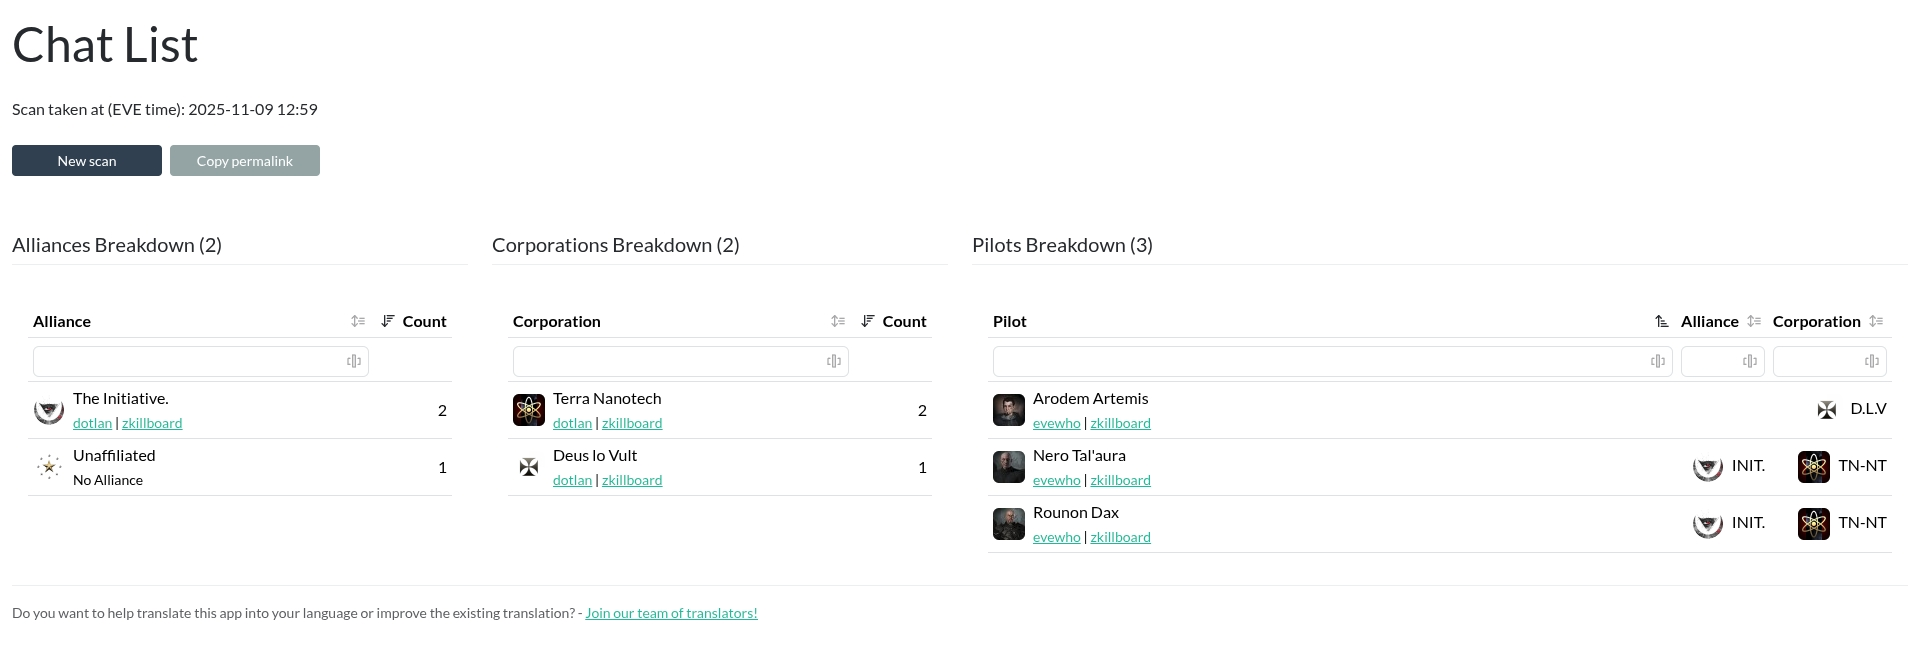
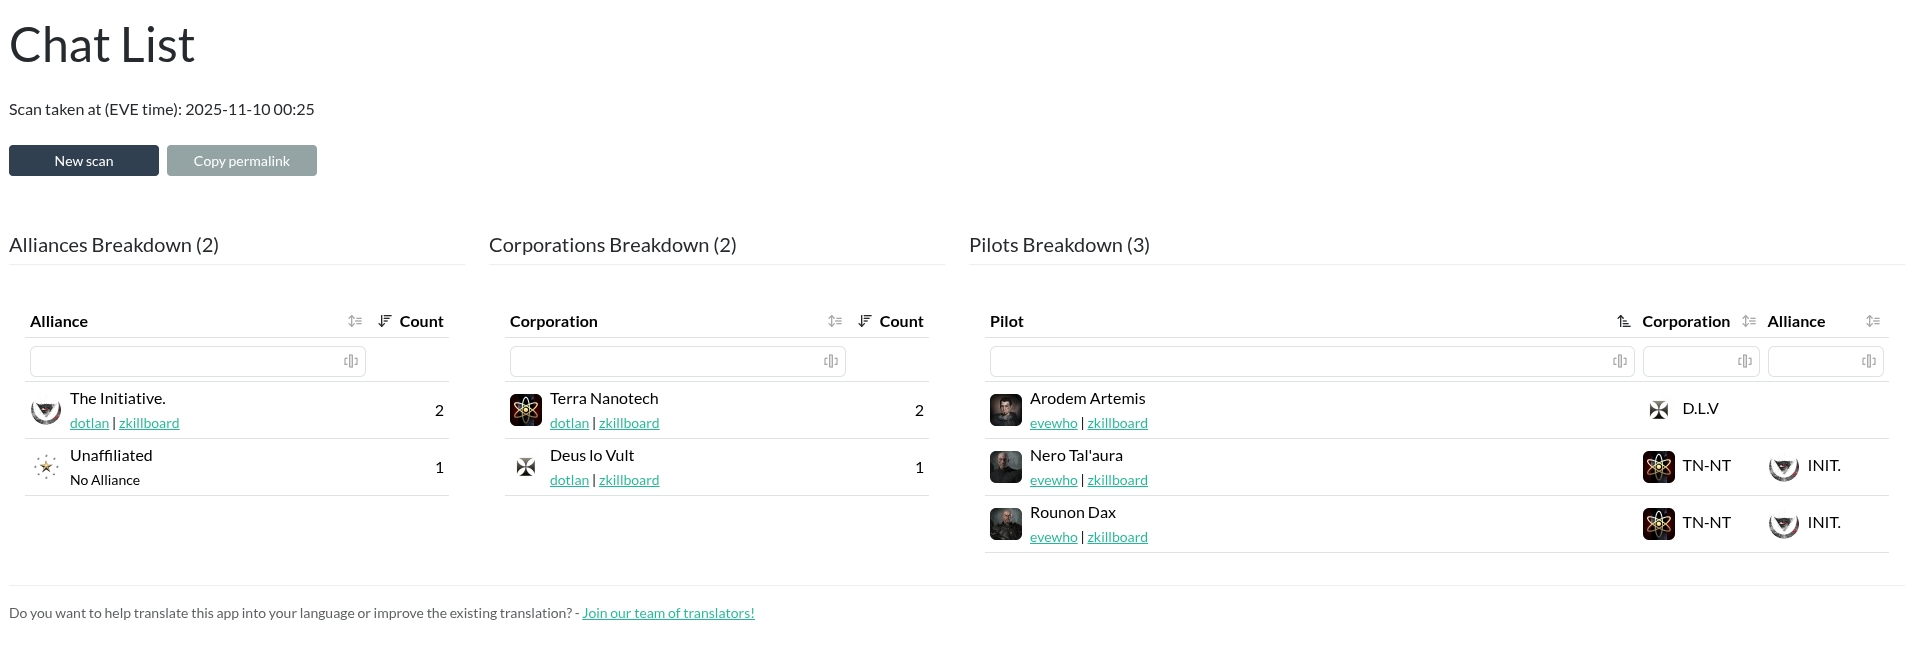
[FIX] Pilot breakdown columns

diff --git a/aa_intel_tool/static/aa_intel_tool/javascript/aa-intel-tool-chatscan.min.js b/aa_intel_tool/static/aa_intel_tool/javascript/aa-intel-tool-chatscan.min.js
@@ -1,2 +1,2 @@
-$(document).ready(()=>{'use strict';const a=_getAaIntelToolJsSettings(),t={pilotsTable:$('table.aa-intel-pilot-participation-list'),corporationsTable:$('table.aa-intel-corporation-participation-list'),alliancesTable:$('table.aa-intel-alliance-participation-list'),pilotsTotalCount:$('span#aa-intel-pilots-count'),corporationsTotalCount:$('span#aa-intel-corporations-count'),alliancesTotalCount:$('span#aa-intel-alliances-count')},l=[[1,'desc']],o=[{target:0,createdCell:a=>$(a).addClass('text-ellipsis fix-eve-image-position')},{target:1,width:35,createdCell:a=>$(a).addClass('text-end'),columnControl:_removeSearchFromColumnControl(a.dataTables.columnControl,1)}],i=({table:t,url:i,loadingClass:e,emptyClass:n,containerClass:r,columns:s,rowClass:c,totalCountElement:p,rowAttributes:d,highlightType:C,tooltipSelector:u,columnDefs:g,order:m})=>{fetchGet({url:i}).then(i=>{if($(`div.${e}`).addClass('d-none'),!i||0===Object.keys(i).length)return void $(`div.${n}`).removeClass('d-none');$(`div.${r}`).removeClass('d-none');new DataTable(t,{data:i,paging:!1,language:a.language.dataTables,lengthChange:!1,dom:a.dataTables.dom,ordering:a.dataTables.ordering,columnControl:a.dataTables.columnControl,columns:s,order:m||l,columnDefs:g||o,createdRow:(a,t)=>{if(p){const a=parseInt(p.html())||0;p.html(a+1)}$(a).addClass(c),d&&Object.entries(d(t)).forEach(([t,l])=>{$(a).attr(t,l)})},initComplete:()=>{_toggleChatscanStickyHighlight({element:$(`.${c}`),type:C}),u&&bootstrapTooltip({selector:u})}})}).catch(a=>console.error(`Error fetching data for ${c}:`,a))};i({table:t.alliancesTable,url:a.url.getAllianceList,loadingClass:'aa-intel-loading-table-info-alliance-participation-list',emptyClass:'aa-intel-empty-table-info-alliance-participation-list',containerClass:'table-local-scan-alliances',columns:[{data:a=>`${allianceInfoPanel(a)}<span class="d-none">${a.ticker||''}</span>`},{data:'count'}],rowClass:'aa-intel-alliance-participation-item',totalCountElement:t.alliancesTotalCount,rowAttributes:a=>({'data-alliance-id':a.id}),highlightType:'alliance',tooltipSelector:'.aa-intel-alliance-participation-list'}),i({table:t.corporationsTable,url:a.url.getCorporationList,loadingClass:'aa-intel-loading-table-info-corporation-participation-list',emptyClass:'aa-intel-empty-table-info-corporation-participation-list',containerClass:'table-local-scan-corporations',columns:[{data:a=>`${corporationInfoPanel(a)}<span class="d-none">${a.ticker||''}, ${a.alliance&&a.alliance.name||''}, ${a.alliance&&a.alliance.ticker||''}</span>`},{data:'count'}],rowClass:'aa-intel-corporation-participation-item',totalCountElement:t.corporationsTotalCount,rowAttributes:a=>({'data-corporation-id':a.id,'data-alliance-id':a.alliance&&a.alliance.id||''}),highlightType:'corporation',tooltipSelector:'.aa-intel-corporation-participation-list'}),i({table:t.pilotsTable,url:a.url.getPilotList,loadingClass:'aa-intel-loading-table-info-pilot-participation-list',emptyClass:'aa-intel-empty-table-info-pilot-participation-list',containerClass:'table-local-scan-pilots',columns:[{data:a=>pilotInfoPanel(a)},{data:a=>`${allianceInfoPanel(a.alliance||{},!0)}${a.alliance&&a.alliance.ticker||''}<span class="d-none">${a.alliance&&a.alliance.name||''}</span>`},{data:a=>`${corporationInfoPanel(a.corporation||{},!0)}${a.corporation&&a.corporation.ticker||''}<span class="d-none">${a.corporation&&a.corporation.name||''}</span>`}],order:[[0,'asc']],columnDefs:[{target:0,createdCell:a=>$(a).addClass('text-ellipsis fix-eve-image-position')},{target:1,width:35,createdCell:a=>$(a).addClass('text-end')},{target:2,width:35,createdCell:a=>$(a).addClass('text-end')}],rowClass:'aa-intel-pilot-participation-item',totalCountElement:t.pilotsTotalCount,rowAttributes:a=>({'data-character-id':a.id,'data-corporation-id':a.corporation&&a.corporation.id||'','data-alliance-id':a.alliance&&a.alliance.id||''}),highlightType:'pilot',tooltipSelector:'.aa-intel-pilot-participation-list'})});
+$(document).ready(()=>{'use strict';const a=_getAaIntelToolJsSettings(),t={pilotsTable:$('table.aa-intel-pilot-participation-list'),corporationsTable:$('table.aa-intel-corporation-participation-list'),alliancesTable:$('table.aa-intel-alliance-participation-list'),pilotsTotalCount:$('span#aa-intel-pilots-count'),corporationsTotalCount:$('span#aa-intel-corporations-count'),alliancesTotalCount:$('span#aa-intel-alliances-count')},l=[[1,'desc']],o=[{target:0,createdCell:a=>$(a).addClass('text-ellipsis fix-eve-image-position')},{target:1,width:35,createdCell:a=>$(a).addClass('text-end'),columnControl:_removeSearchFromColumnControl(a.dataTables.columnControl,1)}],i=({table:t,url:i,loadingClass:e,emptyClass:n,containerClass:r,columns:s,rowClass:c,totalCountElement:p,rowAttributes:d,highlightType:C,tooltipSelector:u,columnDefs:g,order:m})=>{fetchGet({url:i}).then(i=>{if($(`div.${e}`).addClass('d-none'),!i||0===Object.keys(i).length)return void $(`div.${n}`).removeClass('d-none');$(`div.${r}`).removeClass('d-none');new DataTable(t,{data:i,paging:!1,language:a.language.dataTables,lengthChange:!1,dom:a.dataTables.dom,ordering:a.dataTables.ordering,columnControl:a.dataTables.columnControl,columns:s,order:m||l,columnDefs:g||o,createdRow:(a,t)=>{if(p){const a=parseInt(p.html())||0;p.html(a+1)}$(a).addClass(c),d&&Object.entries(d(t)).forEach(([t,l])=>{$(a).attr(t,l)})},initComplete:()=>{_toggleChatscanStickyHighlight({element:$(`.${c}`),type:C}),u&&bootstrapTooltip({selector:u})}})}).catch(a=>console.error(`Error fetching data for ${c}:`,a))};i({table:t.alliancesTable,url:a.url.getAllianceList,loadingClass:'aa-intel-loading-table-info-alliance-participation-list',emptyClass:'aa-intel-empty-table-info-alliance-participation-list',containerClass:'table-local-scan-alliances',columns:[{data:a=>`${allianceInfoPanel(a)}<span class="d-none">${a.ticker||''}</span>`},{data:'count'}],rowClass:'aa-intel-alliance-participation-item',totalCountElement:t.alliancesTotalCount,rowAttributes:a=>({'data-alliance-id':a.id}),highlightType:'alliance',tooltipSelector:'.aa-intel-alliance-participation-list'}),i({table:t.corporationsTable,url:a.url.getCorporationList,loadingClass:'aa-intel-loading-table-info-corporation-participation-list',emptyClass:'aa-intel-empty-table-info-corporation-participation-list',containerClass:'table-local-scan-corporations',columns:[{data:a=>`${corporationInfoPanel(a)}<span class="d-none">${a.ticker||''}, ${a.alliance&&a.alliance.name||''}, ${a.alliance&&a.alliance.ticker||''}</span>`},{data:'count'}],rowClass:'aa-intel-corporation-participation-item',totalCountElement:t.corporationsTotalCount,rowAttributes:a=>({'data-corporation-id':a.id,'data-alliance-id':a.alliance&&a.alliance.id||''}),highlightType:'corporation',tooltipSelector:'.aa-intel-corporation-participation-list'}),i({table:t.pilotsTable,url:a.url.getPilotList,loadingClass:'aa-intel-loading-table-info-pilot-participation-list',emptyClass:'aa-intel-empty-table-info-pilot-participation-list',containerClass:'table-local-scan-pilots',columns:[{data:a=>pilotInfoPanel(a)},{data:a=>`${corporationInfoPanel(a.corporation||{},!0)}${a.corporation&&a.corporation.ticker||''}<span class="d-none">${a.corporation&&a.corporation.name||''}</span>`},{data:a=>`${allianceInfoPanel(a.alliance||{},!0)}${a.alliance&&a.alliance.ticker||''}<span class="d-none">${a.alliance&&a.alliance.name||''}</span>`}],order:[[0,'asc']],columnDefs:[{target:0,createdCell:a=>$(a).addClass('text-ellipsis fix-eve-image-position')},{target:1,width:125},{target:2,width:125}],rowClass:'aa-intel-pilot-participation-item',totalCountElement:t.pilotsTotalCount,rowAttributes:a=>({'data-character-id':a.id,'data-corporation-id':a.corporation&&a.corporation.id||'','data-alliance-id':a.alliance&&a.alliance.id||''}),highlightType:'pilot',tooltipSelector:'.aa-intel-pilot-participation-list'})});
 //# sourceMappingURL=aa-intel-tool-chatscan.min.js.map

diff --git a/aa_intel_tool/static/aa_intel_tool/javascript/aa-intel-tool-chatscan.js b/aa_intel_tool/static/aa_intel_tool/javascript/aa-intel-tool-chatscan.js
@@ -159,8 +159,8 @@ $(document).ready(() => {
         containerClass: 'table-local-scan-pilots',
         columns: [
             {data: (data) => pilotInfoPanel(data)},
-            {data: (data) => `${allianceInfoPanel((data.alliance || {}), true)}${((data.alliance && data.alliance.ticker) || '')}<span class="d-none">${((data.alliance && data.alliance.name) || '')}</span>`},
-            {data: (data) => `${corporationInfoPanel((data.corporation || {}), true)}${((data.corporation && data.corporation.ticker) || '')}<span class="d-none">${((data.corporation && data.corporation.name) || '')}</span>`}
+            {data: (data) => `${corporationInfoPanel((data.corporation || {}), true)}${((data.corporation && data.corporation.ticker) || '')}<span class="d-none">${((data.corporation && data.corporation.name) || '')}</span>`},
+            {data: (data) => `${allianceInfoPanel((data.alliance || {}), true)}${((data.alliance && data.alliance.ticker) || '')}<span class="d-none">${((data.alliance && data.alliance.name) || '')}</span>`}
         ],
         // custom order
         order: [
@@ -174,13 +174,11 @@ $(document).ready(() => {
             },
             {
                 target: 1,
-                width: 35,
-                createdCell: (td) => $(td).addClass('text-end')
+                width: 125
             },
             {
                 target: 2,
-                width: 35,
-                createdCell: (td) => $(td).addClass('text-end')
+                width: 125
             }
         ],
         rowClass: 'aa-intel-pilot-participation-item',

diff --git a/aa_intel_tool/templates/aa_intel_tool/partials/scan/chatlist/pilots.html b/aa_intel_tool/templates/aa_intel_tool/partials/scan/chatlist/pilots.html
@@ -15,8 +15,8 @@
                     <thead>
                         <tr>
                             <th>{% translate "Pilot" %}</th>
-                            <th>{% translate "Alliance" %}</th>
                             <th>{% translate "Corporation" %}</th>
+                            <th>{% translate "Alliance" %}</th>
                         </tr>
                     </thead>
                 </table>

diff --git a/CHANGELOG.md b/CHANGELOG.md
@@ -37,6 +37,10 @@ Section Order:
 
 <!-- Your changes go here -->
 
+### Fixed
+
+- Pilot breakdown columns
+
 ## [2.11.0] - 2025-11-09
 
 ### Changed
